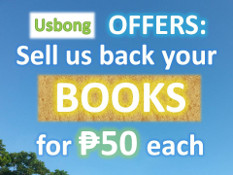
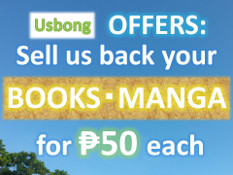
+updated: in product item page, if product category is "Manga", use Usbong School's JLPT Review Ad, instead of the "Buy More, Save More" Ad. --> +added: link to my LinkedIn profile page upon mouse click of the Ad. +updated: Buy Back Ad --> +updated: "BOOKS" to "BOOKS・MANGA" --> While we've already r

Changed region(s): [[0.0, 0.4, 0.9914, 0.7143]]

diff --git a/usbong_store/application/views/templates/style.php b/usbong_store/application/views/templates/style.php
@@ -1429,6 +1429,15 @@ defined('BASEPATH') OR exit('No direct script access allowed');
     	filter: alpha(opacity=60); /* For IE8 and earlier */
    	}
 
+	.Product-item-page-image-offers-jlpt {
+		margin-left: 20px;
+	}
+
+	.Product-item-page-image-offers-jlpt:hover {
+ 		opacity: 0.6;
+    	filter: alpha(opacity=60); /* For IE8 and earlier */
+   	}
+
 	.Image-offers-be-a-merchant {
 		position: relative;
 		display:block;		
